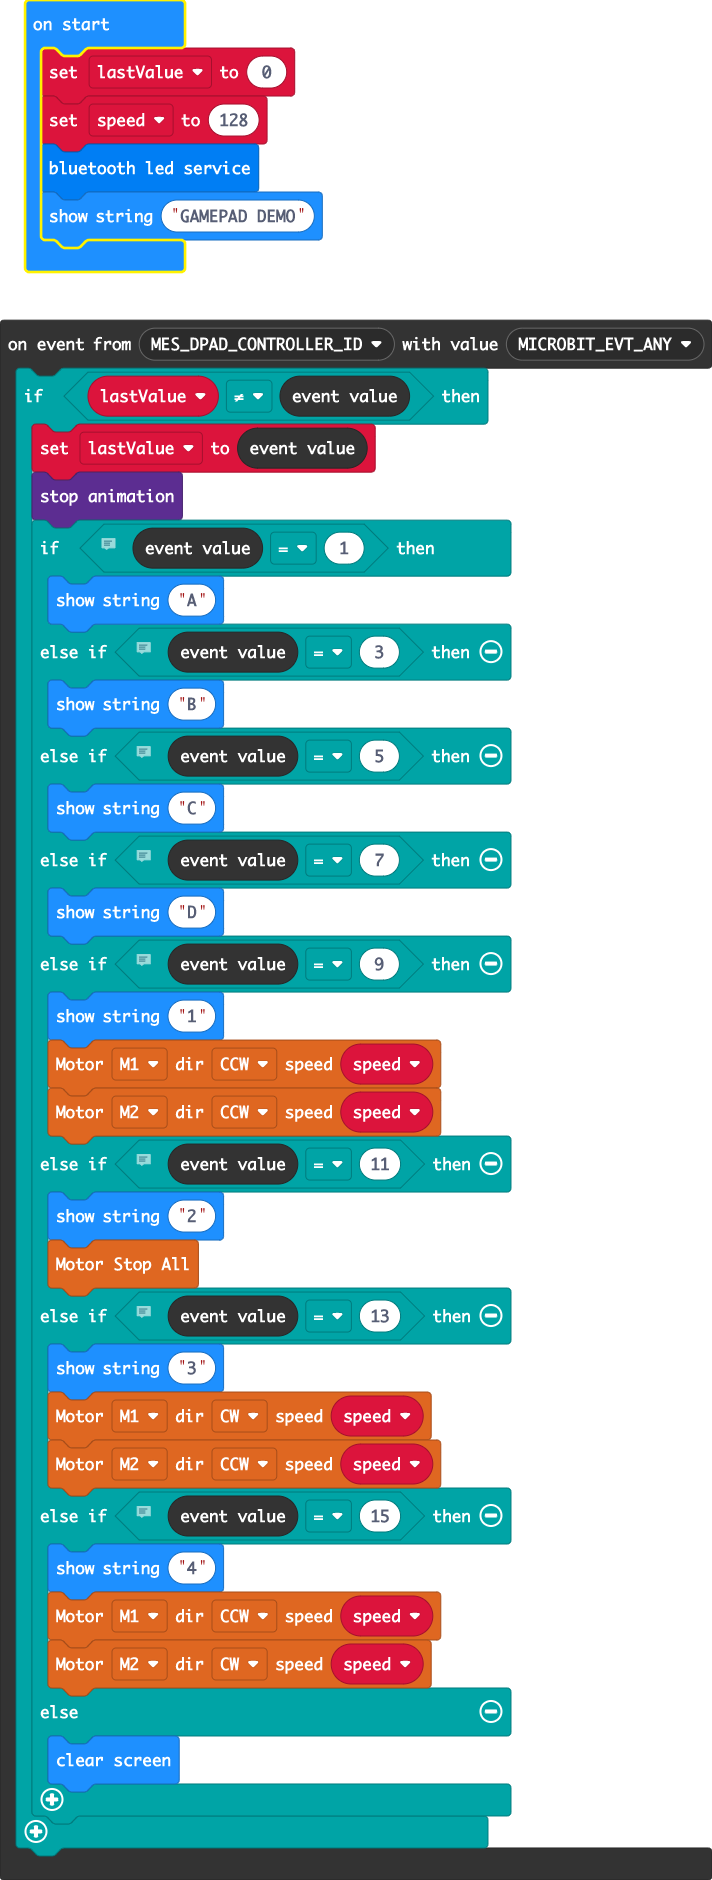
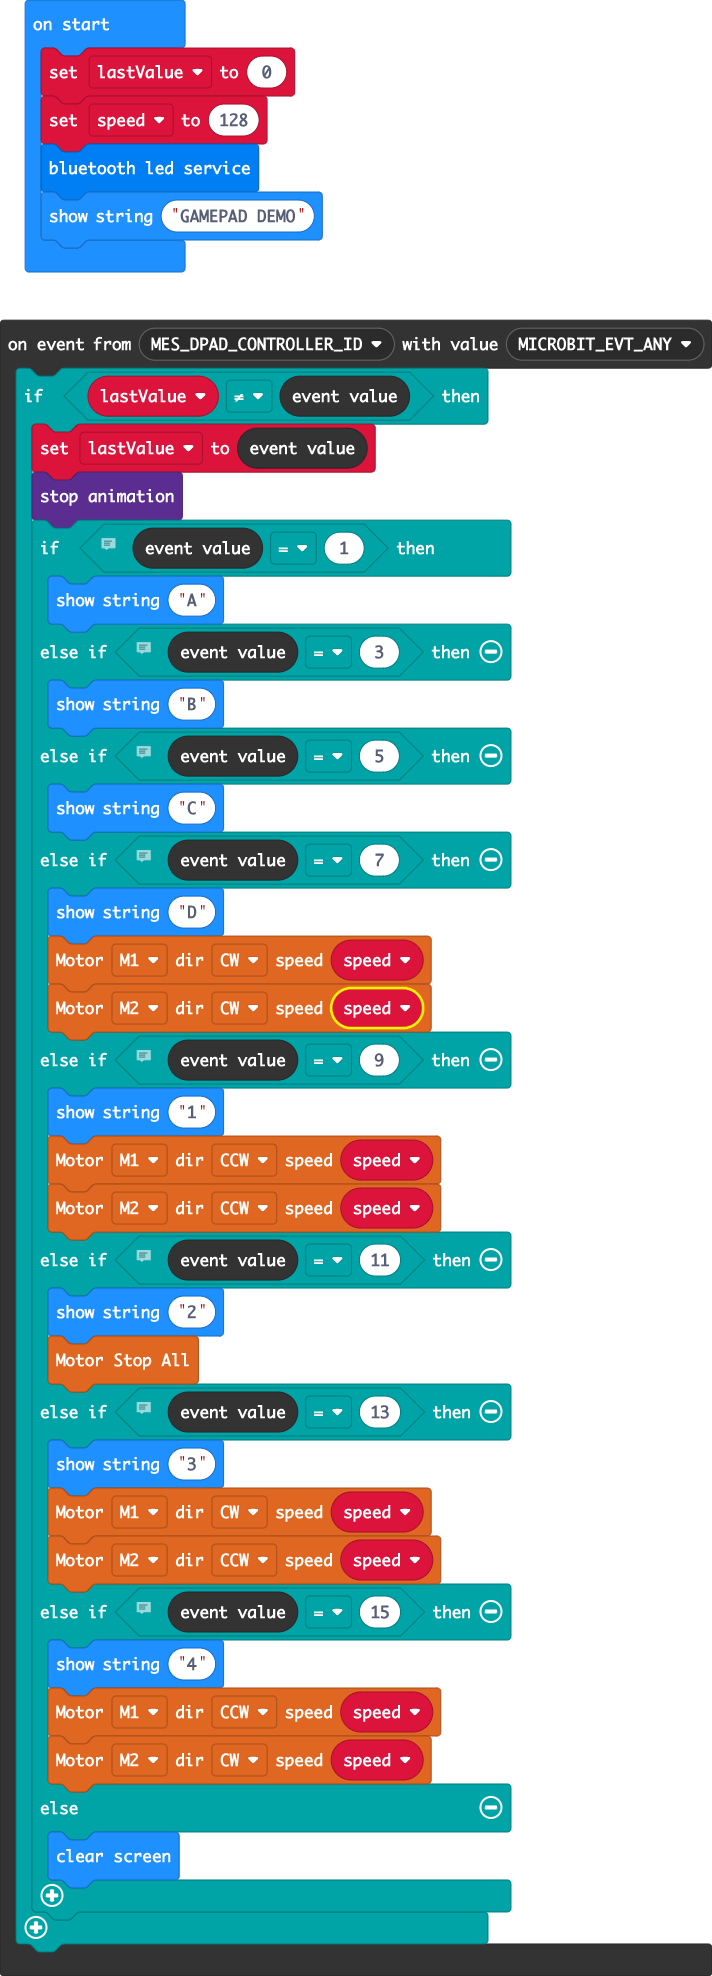
Update main.blocks, main.ts

diff --git a/main.ts b/main.ts
@@ -18,6 +18,8 @@ control.onEvent(EventBusSource.MES_DPAD_CONTROLLER_ID, EventBusValue.MICROBIT_EV
             basic.showString("C")
         } else if (control.eventValue() == 7) {
             basic.showString("D")
+            motor.MotorRun(motor.Motors.M1, motor.Dir.CW, speed)
+            motor.MotorRun(motor.Motors.M2, motor.Dir.CW, speed)
         } else if (control.eventValue() == 9) {
             basic.showString("1")
             motor.MotorRun(motor.Motors.M1, motor.Dir.CCW, speed)
